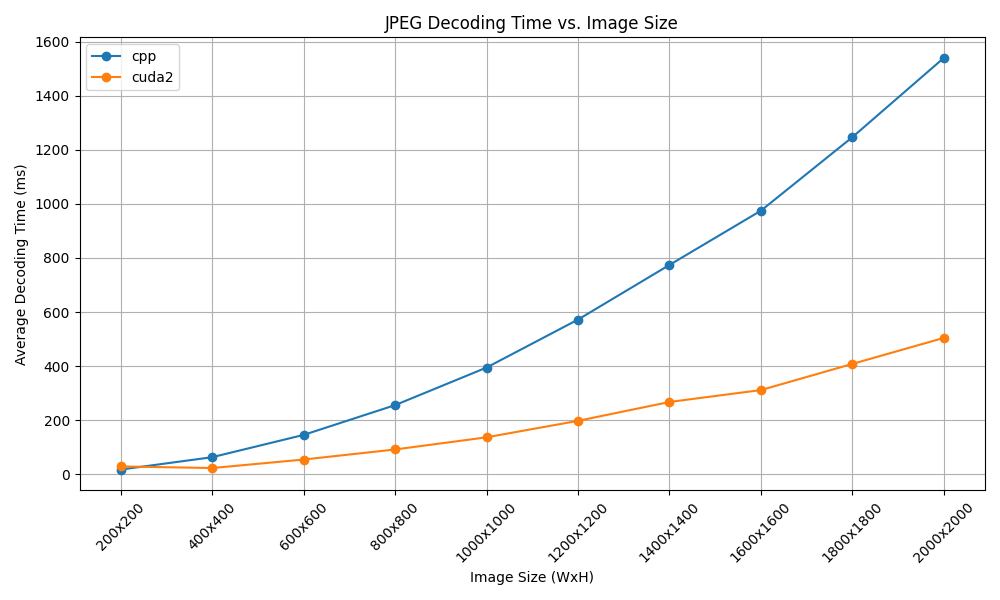
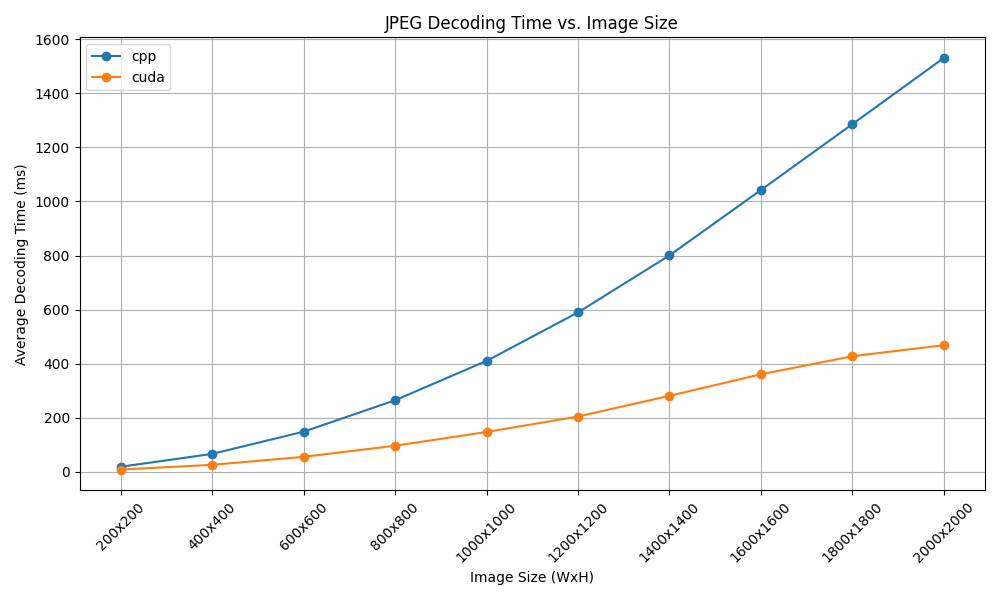
latest results

diff --git a/plots/plot_benchmark.py b/plots/plot_benchmark.py
@@ -3,7 +3,7 @@ import json
 import matplotlib.pyplot as plt
 from collections import defaultdict
 
-versions = ['cpp','cuda2']
+versions = ['cpp','cuda']
 
 sizes = [200, 400, 600, 800, 1000, 1200, 1400, 1600, 1800, 2000]
 
